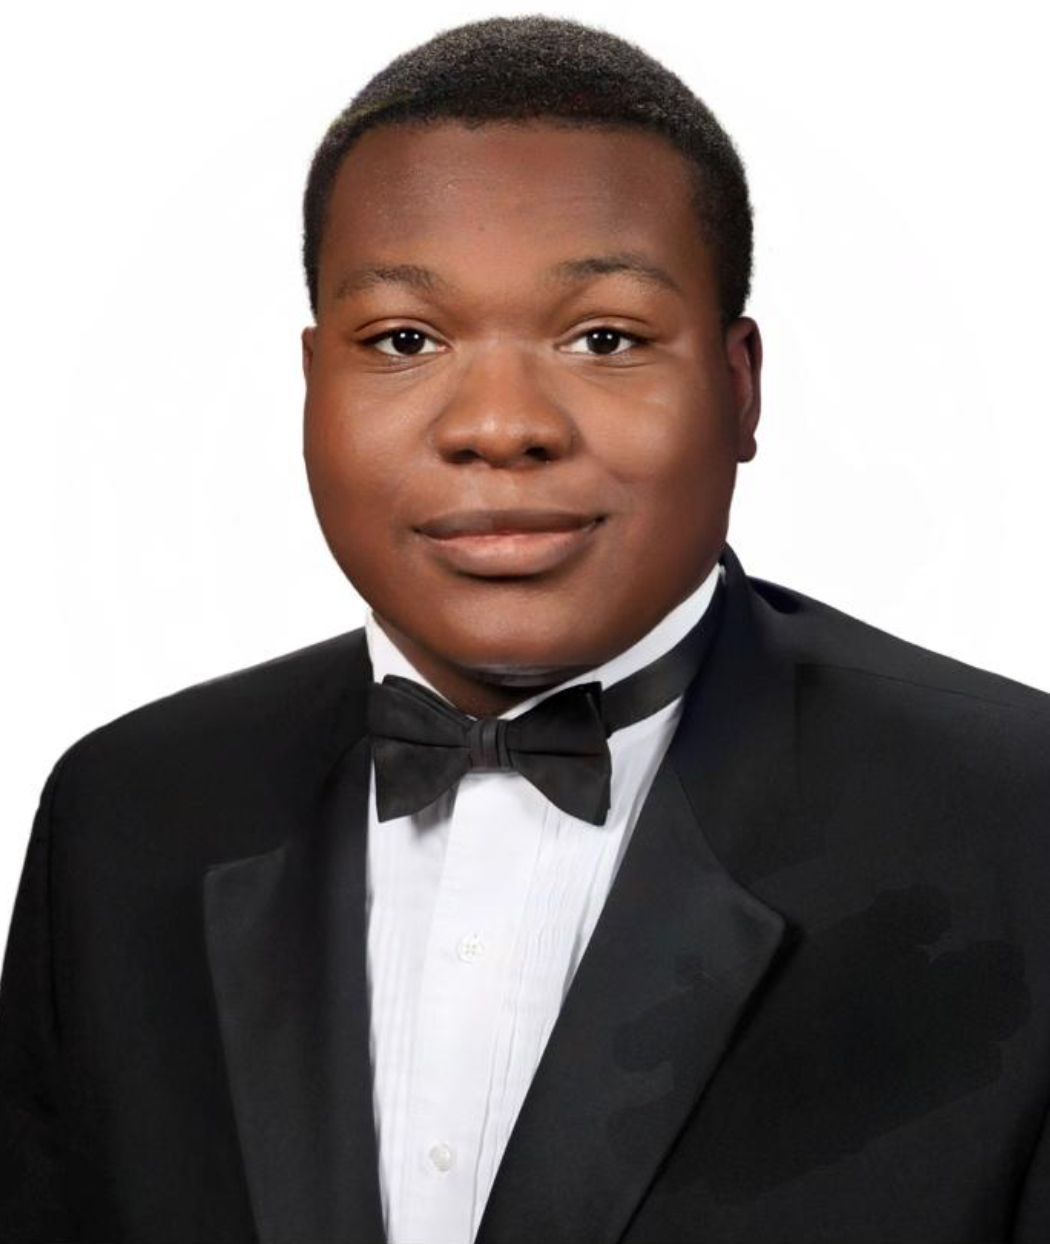
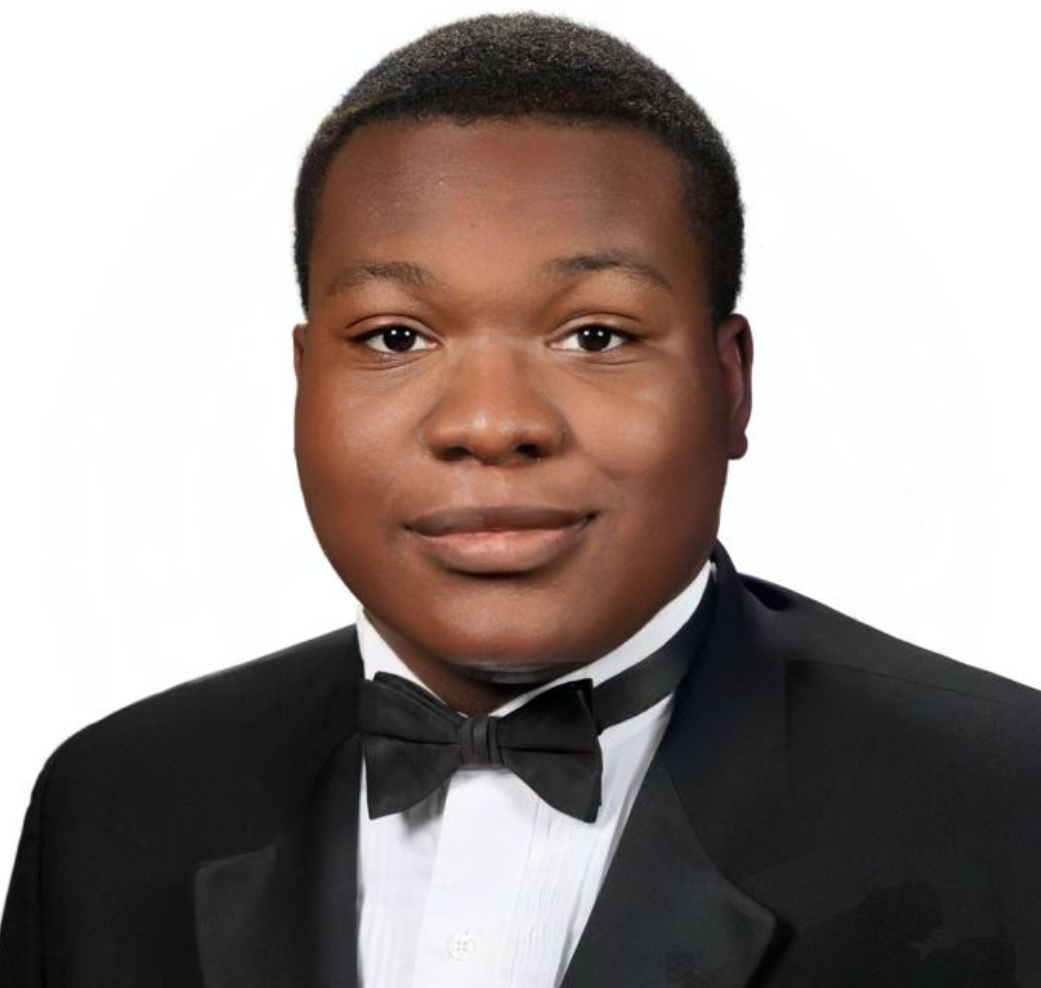
cropped the images

diff --git a/src/api/data.js b/src/api/data.js
@@ -378,7 +378,7 @@ const leaders = [
     image: "/gallery/Liv picture 2 - Olivia Gray.jpg",
     name: "Olivia Gray",
     title: "National Associate Director of Career & Academic Success",
-    status: "supportTeam",
+    status: "director",
     department: "Member Relations",
     longBio: "Olivia Gray is a third-year Elementary Education major at Spelman College. As National Associate Director of Career & Academic Success, she is dedicated to academic achievement and career development, and is recognized for her leadership and community impact.",
     empowermentQuote: "",
@@ -464,14 +464,14 @@ const leaders = [
     image: "/gallery/P1250750 - Travis Parrish.jpeg",
     name: "Travis Parrish",
     title: "Manager",
-    status: "director",
+    status: "supportTeam",
     department: "Executive Leadership",
-    longBio: "Travis Parrish is a sophomore Business Administration major at Morehouse College. As Interim National Director of Operations for BYEN, he is dedicated to organizational leadership and supporting the growth and success of Black youth.",
+    longBio: "Travis Parrish is a sophomore Business Administration major at Morehouse College. As Manager for BYEN, he is dedicated to supporting executive leadership and organizational success through his role in the support team.",
     empowermentQuote: "",
     achievements: [
       "Got accepted and currently attending my dream school. Morehouse College",
       "Became a recreation supervisor at the age of 17",
-      "Became the interim national director of operations for BYEN at the age of 18",
+      "Serves as Manager in BYEN's support team at the age of 18",
       "I’m happy with and where I am in life"
     ],
     education: "Morehouse college, Sophomore, Business administration",
@@ -710,12 +710,12 @@ const leaders = [
   // New Leadership Team Members - August 2025
   {
     id: "chloe-dasher",
-    image: "/IMG_7941 - Chloe Dasher.JPG",
-    name: "Chloe Dasher",
+    image: "/Chloe_Dasher.jpeg",
+    name: "Chole Dasher",
     title: "Member Relations Resource Specialist",
     status: "supportTeam",
     department: "Member Relations",
-    longBio: "Chloe Dasher is a sophomore at Spelman College majoring in Elementary Education. As Member Relations Resource Specialist for BYEN, she brings her passion for community service and academic excellence to support member engagement and development.",
+    longBio: "Chole Dasher is a sophomore at Spelman College majoring in Elementary Education. As Member Relations Resource Specialist for BYEN, she brings her passion for community service and academic excellence to support member engagement and development.",
     empowermentQuote: "",
     achievements: [
       "Obtained Associate of Arts Degree from St. John's River State College before high school graduation",
@@ -732,7 +732,7 @@ const leaders = [
       email: "chloedasher1@gmail.com"
     },
     gallery: [
-      "/IMG_7941 - Chloe Dasher.JPG"
+      "/Chloe_Dasher.jpeg"
     ]
   },
   {
@@ -901,7 +901,7 @@ const leaders = [
   },
   {
     id: "oceane-galamo",
-    image: "/image - Oceane.jpg",
+    image: "/Oceane_Galamo.jpeg",
     name: "Oceane Galamo",
     title: "Community Outreach Specialist",
     status: "supportTeam",
@@ -923,7 +923,7 @@ const leaders = [
       email: "galamooceane@gmail.com"
     },
     gallery: [
-      "/image - Oceane.jpg"
+      "/Oceane_Galamo.jpeg"
     ]
   }
 ]

diff --git a/src/pages/NewsAndBlog.jsx b/src/pages/NewsAndBlog.jsx
@@ -214,8 +214,7 @@ This interview is more than just a conversation; it's a journey through the lead
                 BYEN Voices
               </h2>
               <p className="text-lg text-gray-700 leading-relaxed text-center max-w-4xl mx-auto">
-                BYEN Voices is a youth-led storytelling platform powered by the Black Youth Empowerment Network, created to celebrate changemakers, amplify lived experiences, and shed light on issues impacting Black youth. Rooted in BYEN's mission of vision and impact, this blog is a space where service meets storytelling — where our writers use their voices to give back, build community, and drive meaningful conversations. Through features like Member Spotlights, Impact Stories, Deep Dives, and Leadership in Action, BYEN Voices is a living archive of our movement — for the youth, by the youth.
-              </p>
+              BYEN Voices is a youth-led storytelling platform powered by the Black Youth Empowerment Network, created to celebrate changemakers, amplify lived experiences, and shed light on issues impacting Black youth. Rooted in BYEN’s mission of vision and impact, this blog is a space where service meets storytelling — where our writers use their voices to give back, build community, and drive meaningful conversations. Through features like Member Spotlights, Impact Stories, Deep Dives, and Leadership in Action, BYEN Voices is a living archive of our movement — for the youth, by the youth.              </p>
             </div>
           </Fade>
 

diff --git a/src/pages/Leadership.jsx b/src/pages/Leadership.jsx
@@ -257,8 +257,8 @@ const Leadership = () => {
           
           {/* Team Members Grid */}
           <div className="mb-8">
-            {/* Display National Directors and Support Team for Executive, Marketing & Branding, or Programming & Events department */}
-            {['marketing', 'programming', 'executive'].includes(activeRole) ? (
+            {/* Display National Directors and Support Team for Executive, Marketing & Branding, Programming & Events, or Member Relations department */}
+            {['marketing', 'programming', 'executive', 'memberRelations'].includes(activeRole) ? (
               <>
                 {/* National Directors Section */}
                 <h3 className="text-xl font-semibold mb-6">National Directors</h3>
